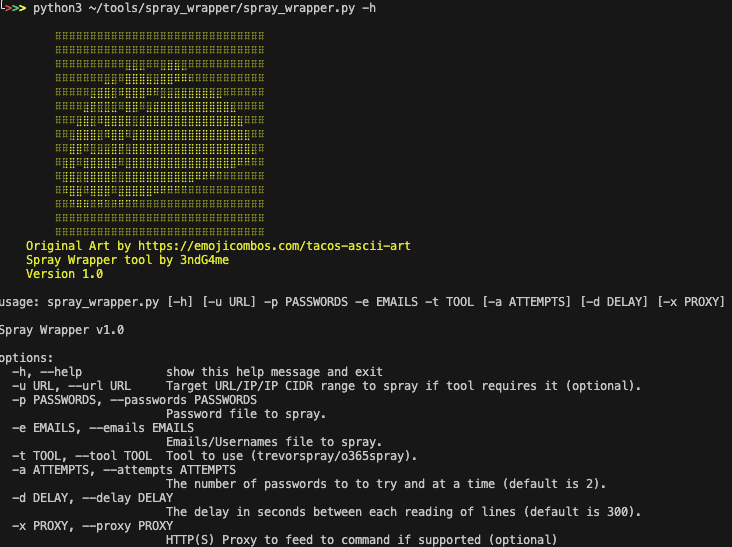
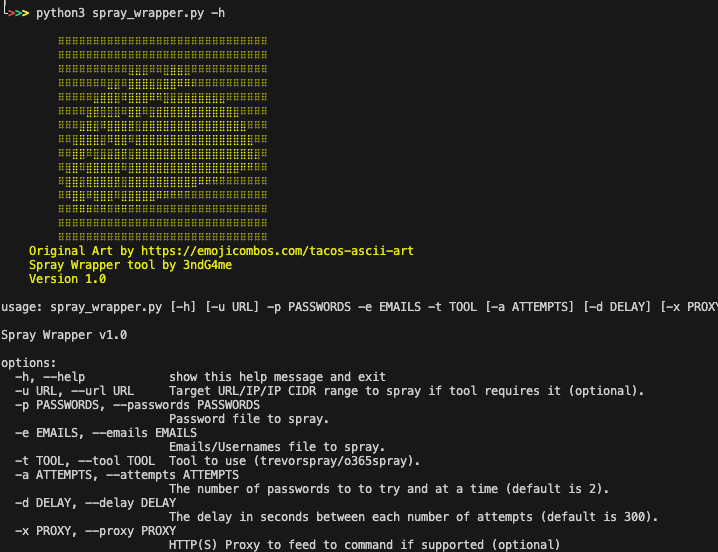
help updates v1.0

Changed region(s): [[0.0, 0.0, 1.0, 1.0]]

diff --git a/spray_wrapper.py b/spray_wrapper.py
@@ -61,7 +61,7 @@ if __name__ == "__main__":
     parser.add_argument("-e", "--emails", required=True, help="Emails/Usernames file to spray.")
     parser.add_argument("-t", "--tool", required=True, help="Tool to use (trevorspray/o365spray).")
     parser.add_argument("-a", "--attempts", type=int, default=2, help="The number of passwords to to try and at a time (default is 2).")
-    parser.add_argument("-d", "--delay", type=int, default=300, help="The delay in seconds between each reading of lines (default is 300).")
+    parser.add_argument("-d", "--delay", type=int, default=300, help="The delay in seconds between each number of attempts (default is 300).")
     parser.add_argument("-x", "--proxy", help="HTTP(S) Proxy to feed to command if supported (optional)")
     args = parser.parse_args()
     
